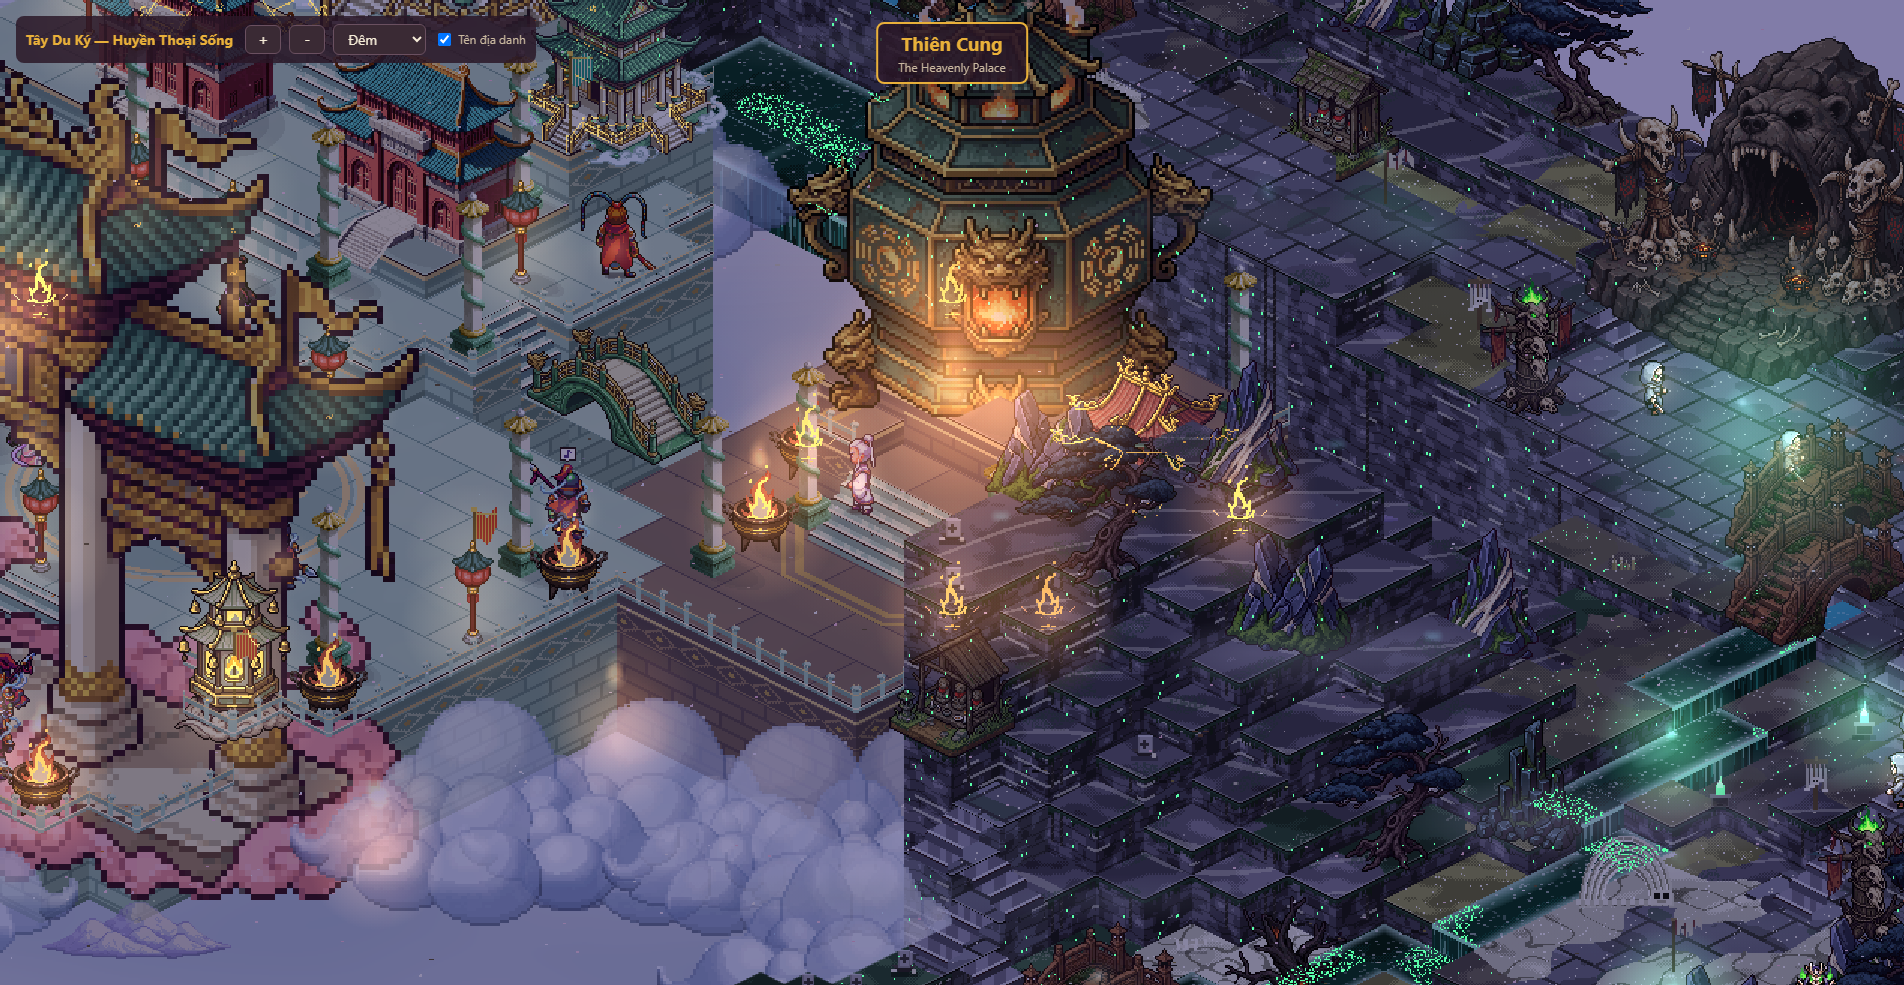
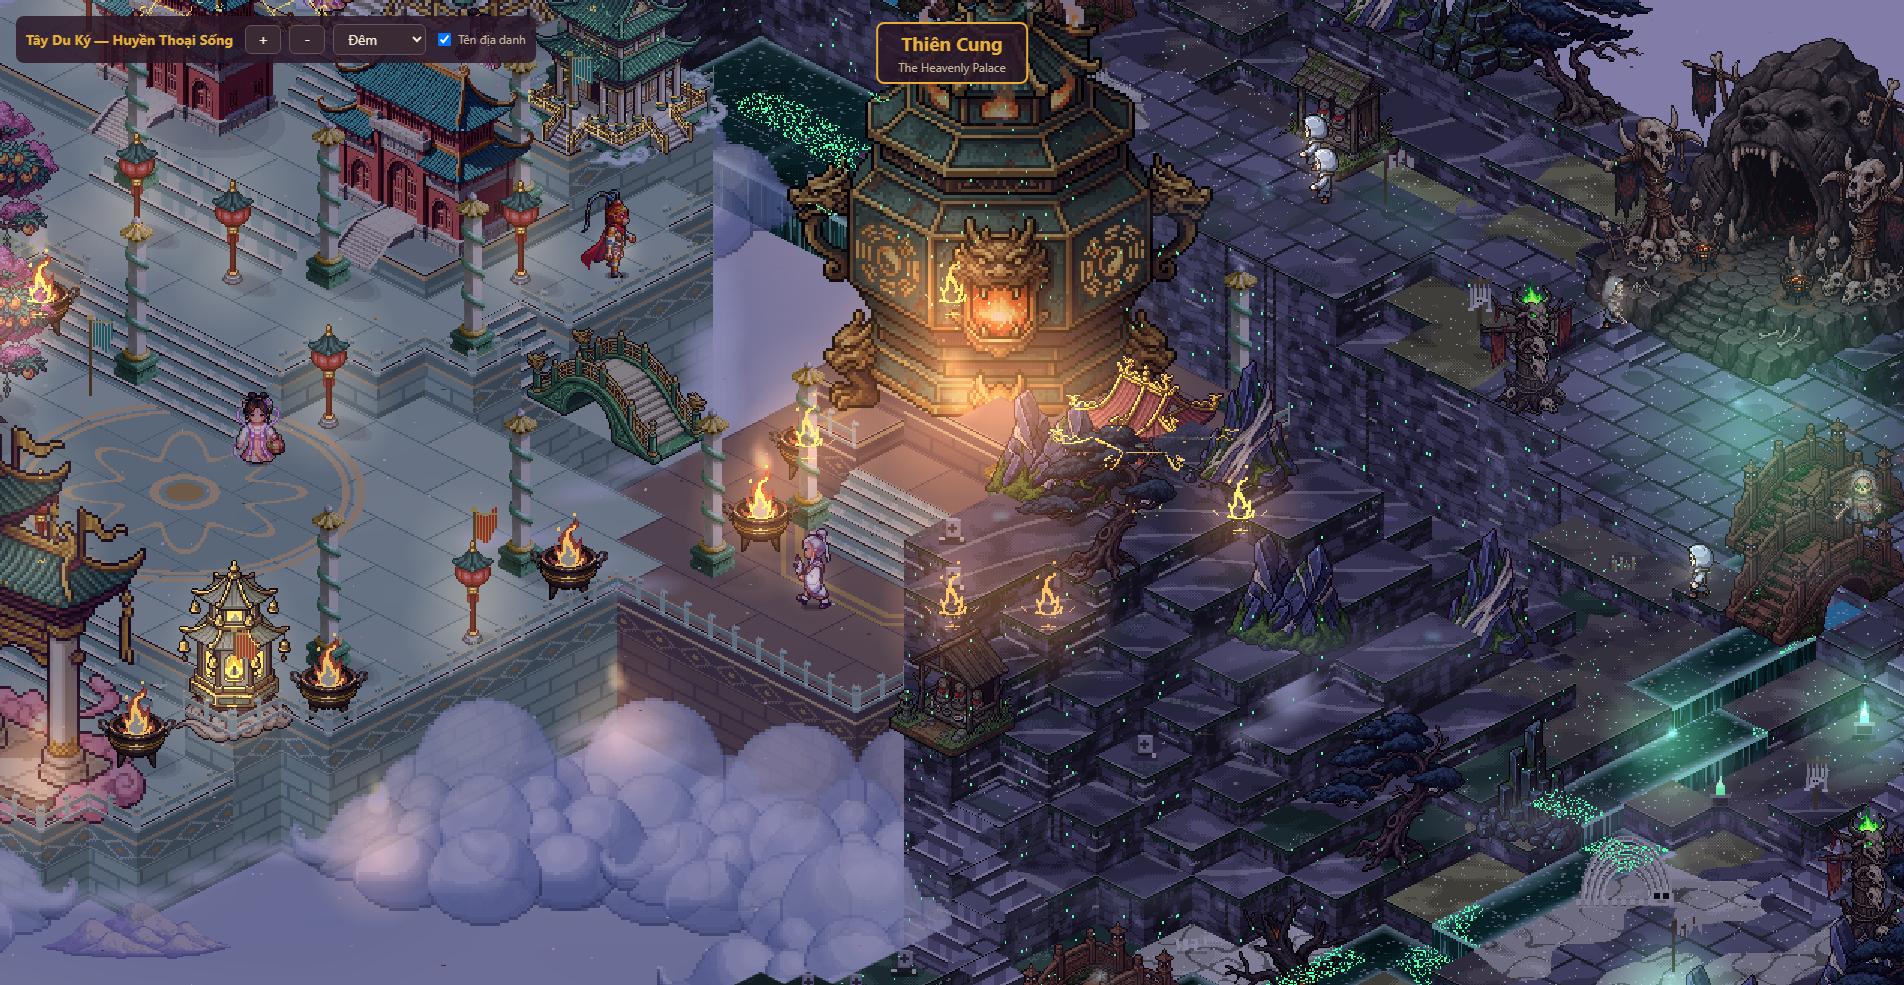
Thiên Cung: shrink Nam Thiên Môn to 1x so the court and events stay visible, turn blank HEAVEN patches in the garden into lawn, wrap cliff feet and corners in cloud banks to soften the seams

diff --git a/tayduky/tw-tc2-fx.js b/tayduky/tw-tc2-fx.js
@@ -20,13 +20,28 @@ window.TWFX = window.TWFX || {};
   const prevSprite = A.ext && A.ext.sprite; A.ext = A.ext || {};
   A.ext.sprite = p => {
     const key = p.kind === 'tcgate' ? 'tc_monument_a' : p.kind === 'tcfurnace' ? 'tc_kiln_a' : p.kind === 'tcpalace' && p.big ? 'tc_palace_a' : null, im = key && A.IMG[key];
-    if (!im) return prevSprite ? prevSprite(p) : null; const K = 2;
+    if (!im) return prevSprite ? prevSprite(p) : null; const K = p.kind === 'tcgate' ? 1 : 2;   // the great gate stays at the world's own scale so it frames the court instead of hiding it
     return { w: im.w * K, h: im.h * K, py: im.py * K, frames: [im.im], em: null, glow: null, silk: null, flat: false, img: true, draw(g, s, f) { const sv = g.imageSmoothingEnabled; g.imageSmoothingEnabled = false; g.drawImage(f, 0, 0, f.width, f.height, s.X, s.Y, f.width * K, f.height * K); g.imageSmoothingEnabled = sv; } };
   };
   // ---------------------------------------------------------------- depth-sorted: silk banners on poles and the flying lid
   function banner(g, X, Y, t, ph, col) { px(g, X, Y - 52, 2, 52, '#7a5a2a'); px(g, X - 1, Y - 54, 4, 3, '#e8c860'); for (let q = 0; q < 14; q++) { const w = Math.sin(t * 2.6 + ph + q * 0.5) * (1 + q * 0.25); g.fillStyle = col[q % 2 ? 0 : 1]; g.fillRect(Math.round(X + 2 + q), Math.round(Y - 50 + w), 1, 18 - (q > 9 ? q - 9 : 0)); } px(g, X + 2, Y - 50, 14, 1, '#e8c860'); }
+  // ---------------------------------------------------------------- the borders: soft cloud wraps every edge where Thiên Cung meets a neighbouring biome's rock, so no hard seam shows
+  let seamPts = null;
+  function seamList() {
+    if (seamPts) return seamPts; seamPts = []; const N = TWM.N, M = TWM.M, B = F().B, id = TWM.id, solid = k => TWM.MAT[k] !== M.VOID && TWM.MAT[k] !== M.CLOUD;
+    for (let k = 0; k < N * N; k++) { if (TWM.BIO[k] !== B || !solid(k) || TWM.MAT[k] === M.POOL) continue; const i = k % N, j = Math.floor(k / N);
+      for (const [da, db] of [[1, 0], [0, 1]]) { const a = i + da, b = j + db; if (!TWM.inMap(a, b)) continue; const z = id(a, b); if ((TWM.BIO[z] === B && solid(z)) || TWM.MAT[z] === M.VOID || TWM.H[k] - TWM.H[z] < 2) continue;
+        // only where Thiên Cung stands higher: its cliff foot meets cloud or the neighbour's lower rock (a rock wall rising above Thiên Cung hides this edge itself)
+        seamPts.push({ x: (i + 0.5 + da * 0.5) * T, y: (j + 0.5 + db * 0.5) * T, cx: (a + 0.5) * T, cy: (b + 0.5) * T, d: (a + b + 1) * T + 0.3, n: seamPts.length, dh: TWM.H[k] - TWM.H[z], hi: TWM.H[k], lo: TWM.MAT[z] === M.CLOUD ? -1 : TWM.H[z], corner: da === 1 && !(TWM.inMap(i, j - 1) && TWM.BIO[id(i, j - 1)] === B && solid(id(i, j - 1))), cox: (i + 1) * T, coy: j * T }); } }
+    return seamPts;
+  }
+  function seamMist(D, R) {
+    const t = R.t; for (const p of seamList()) { const Z = TWM.MAT[TWM.id(Math.floor(p.cx / T), Math.floor(p.cy / T))] === TWM.M.CLOUD ? -1 : ground(p.cx, p.cy), X = R.wx(p.x, p.y), Y = R.wy(p.x, p.y, Z); if (!inView(R, X, Y, 60)) continue;
+      D.push([p.d, 5, { draw: g => { const sw = Math.sin(t * 0.3 + p.n * 1.9) * 3; mist(g, X + sw, Y + 2, 30, 10, 0.55, '246,250,255'); mist(g, X - 12 - sw, Y + 7, 22, 8, 0.4, '255,244,248'); } }]);
+      if (p.corner) { const cx = R.wx(p.cox, p.coy); for (let q = 0; q < 5; q++) { const z = p.lo + (p.hi - p.lo) * (q + 0.5) / 5, cy = R.wy(p.cox, p.coy, z); if (inView(R, cx, cy, 40)) D.push([p.d + 0.1, 5, { draw: g => mist(g, cx + Math.sin(t * 0.4 + q + p.n) * 2, cy, 24, 16, 0.6, '244,249,255') }]); } } }
+  }
   function drawables(D, R) {
-    const f = st(), Fm = F(); if (!f || !Fm || !near(R)) return; const t = R.t;
+    const f = st(), Fm = F(); if (!f || !Fm || !near(R)) return; const t = R.t; seamMist(D, R);
     for (const [n, c] of Fm.flags.entries()) { const x = (c[0] + 0.5) * T, y = (c[1] + 0.5) * T, [X, Y] = scr(R, x, y); if (inView(R, X, Y, 60)) D.push([x + y + 0.2, 5, { draw: g => banner(g, X, Y, t, n * 1.7, n % 2 ? ['#d83a2a', '#f0c050'] : ['#2a9a8a', '#f0e8c0']) }]); }
     for (const [n, c] of Fm.fires.entries()) { const x = (c[0] + 0.5) * T, y = (c[1] + 0.5) * T, [X, Y] = scr(R, x, y, 10); if (!inView(R, X, Y, 40)) continue; D.push([x + y + 0.3, 5, { draw: g => { g.globalCompositeOperation = 'lighter'; for (let q = 0; q < 5; q++) { const u = (t * 1.4 + q / 5 + n * 0.3) % 1; blob(g, X + Math.sin(t * 5 + q + n) * 2, Y - 8 - u * 22, 5 + (1 - u) * 4, q % 2 ? '255,150,50' : '255,220,110', (1 - u) * (0.5 + f.heat * 0.3)); } g.globalCompositeOperation = 'source-over'; } }]); }
     for (const d of f.debris) { const [X, Y] = [R.wx(d.x, d.y), R.wy(d.x, d.y, ground(d.x, d.y) + d.z / 4)]; if (!inView(R, X, Y, 20)) continue; D.push([d.x + d.y + 30, 5, { draw: g => { g.save(); g.translate(X, Y); g.rotate(d.r + d.t * 6); g.fillStyle = '#7a5a2a'; g.fillRect(-d.s, -d.s / 2, d.s * 2, d.s); g.fillStyle = '#e8c860'; g.fillRect(-d.s, -d.s / 2, d.s * 2, 1); g.restore(); if (d.t < 1.5) { g.globalCompositeOperation = 'lighter'; blob(g, X, Y, 8, '255,150,60', 0.4 * (1 - d.t / 1.5)); g.globalCompositeOperation = 'source-over'; } } }]); }
@@ -101,5 +116,5 @@ window.TWFX = window.TWFX || {};
     for (const c of Fm.lamps) { const x = (c[0] + 0.5) * T, y = (c[1] + 0.5) * T, [LX, LY] = scr(R, x, y, 14); if (inView(R, LX, LY, 60)) blob(g, LX, LY, 46, '255,214,140', (0.22 + f.lampPulse * 0.4) * amt * (0.88 + 0.12 * Math.sin(t * 5 + c[0]))); }
     for (const c of Fm.fires) { const x = (c[0] + 0.5) * T, y = (c[1] + 0.5) * T, [LX, LY] = scr(R, x, y, 10); if (inView(R, LX, LY, 60)) blob(g, LX, LY, 52, '255,150,60', 0.3 * amt * (0.8 + 0.2 * Math.sin(t * 8 + c[1]))); }
   }
-  window.TWFX.tc2 = { draw, light, drawables };
+  window.TWFX.tc2 = { draw, light, drawables, seamList };
 })();

diff --git a/tayduky/tw-tc2.js b/tayduky/tw-tc2.js
@@ -20,7 +20,9 @@ window.TW_TC2_BUILD = function (X) {
   ell(36.5, 12.5, 3.7, 2.7, (a, b) => set(a, b, 8, M.BRONZE)); ell(36.5, 12.5, 2.5, 1.8, (a, b) => set(a, b, 9, M.BRONZE)); for (let a = 35; a <= 37; a++) set(a, 14, 7, M.BRONZE);
   for (let b = 20; b <= 22; b++) for (let a = 14; a <= 15; a++) if (inB(a, b)) set(a, b, 6, M.POOL); TWM.water.push({ type: 'ell', c: [15.5, 21.5], rx: 1.5, ry: 2.2, mat: M.POOL });
   for (let k = 0; k < N * N; k++) { if (BIO[k] !== B || MAT[k] === M.VOID || MAT[k] === M.CLOUD || MAT[k] === M.POOL) continue; const i = k % N, j = Math.floor(k / N); for (const [da, db] of [[1, 0], [0, 1]]) { const z = id(i + da, j + db); if (BIO[z] !== B || MAT[z] === M.CLOUD || MAT[z] === M.VOID || MAT[z] === M.POOL || MAT[z] === M.HEAVENBRIDGE || MAT[k] === M.HEAVENBRIDGE) continue; if (Math.abs(H[k] - H[z]) === 1 && !TWM.stairs.has(k + ',' + z)) { TWM.stairs.set(k + ',' + z, 1); TWM.stairs.set(z + ',' + k, 1); } } }
-  const walk = m => m === M.HEAVENPAVE || m === M.HEAVEN || m === M.PEACHLAWN || m === M.BRONZE || m === M.HEAVENBRIDGE;
+  // the pilot's pale HEAVEN stone read as blank white patches in the garden: turn it into lawn, keep one jade path (j = 23) toward the court
+  for (let k = 0; k < N * N; k++) if (BIO[k] === B && MAT[k] === M.HEAVEN) MAT[k] = Math.floor(k / N) === 23 ? M.HEAVENPAVE : M.PEACHLAWN;
+  const walk = m =>m === M.HEAVENPAVE || m === M.HEAVEN || m === M.PEACHLAWN || m === M.BRONZE || m === M.HEAVENBRIDGE;
   const blocked = new Set(), rb = () => { blocked.clear(); for (const p of TWM.props) if (p.block && mine(p.i, p.j)) { const fw = p.fp ? p.fp[0] : 1, fh = p.fp ? p.fp[1] : 1; for (let q = 0; q < fh; q++) for (let r = 0; r < fw; r++) blocked.add(id(p.i + r, p.j + q)); } };
   const free = (a, b) => inB(a, b) && walk(MAT[id(a, b)]) && !blocked.has(id(a, b));
   const P = (kind, a, b, o) => { o = o || {}; const fw = o.fp ? o.fp[0] : 1, fh = o.fp ? o.fp[1] : 1; rb(); for (let q = 0; q < fh; q++) for (let r = 0; r < fw; r++) { if (!inB(a + r, b + q) || !walk(MAT[id(a + r, b + q)]) || blocked.has(id(a + r, b + q)) || (o.block && PATHC[id(a + r, b + q)])) return null; } return prop(kind, a, b, o); };
@@ -29,7 +31,7 @@ window.TW_TC2_BUILD = function (X) {
   const Q = (kind, a, b, o) => { const s = snap(a, b, 2); if (!s) { F.failed.push('poi:' + kind + '@' + a + ',' + b); return null; } const p = poi(kind, 'tc', s[0], s[1], o); if (p) RES[id(s[0], s[1])] = 1; return p; };
   const LT = (a, b, r, col, kind) => TWM.lights.push({ biome: 'tc', i: a, j: b, r, col, kind: kind || 'lantern' });
   // ---- 1. Nam Thiên Môn: the great gate across the south plaza, with lantern towers either side
-  F.gate = L1('tcgate', 24, 26, { fp: [9, 2], piers: [[0, 1], [2, 1], [6, 0], [8, 0]], v: 0 });
+  F.gate = L1('tcgate', 25, 27, { fp: [7, 2], piers: [[0, 1], [2, 1], [4, 0], [6, 0]], v: 0 });
   for (const [a, b] of [[24, 25], [32, 25]]) { if (L1('tclantern', a, b, { v: 1 })) { F.lamps.push([a, b]); LT(a, b, 64, '255,202,125'); } }
   for (const [a, b] of [[25, 28], [31, 28]]) if (L1('tcbrazier', a, b, { v: 0 })) { F.fires.push([a, b]); LT(a, b, 50, '255,159,80', 'fire'); }
   // ---- 2. the Court of Heaven

diff --git a/docs/tayduky/v2/STATUS.md b/docs/tayduky/v2/STATUS.md
@@ -439,3 +439,8 @@ Real tiers now: the south plaza 3 -> the court 5 -> the ceremony terrace 8 -> th
 **Engine additions:** a `kneel` step and pose in `tw-sim.js` / `tw-render.js` (the sprite is deformed: legs fold under, the body drops, a bow from the waist), a `sutra` / `blank` scroll drawn in the pilgrims' hands, `foreT` per story, optional `pick` for flat sprites.
 **Tests:** `tests/tayduky-v2-lat-sim.mjs` (both signatures; four kneel at once, bow, blank and true sutra, states, no teleports), `tests/tayduky-v2-lat-shots.mjs` (screenshots in `screenshots/lat/`), `tests/tayduky-v2-lat.mjs` (Chrome capture of every signature phase), map15 (the Ngũ Trang Quán pocket connector made it pass: 15 regions reachable).
 **Limits:** the kneel is a code deformation of the walking sprite, not a drawn clip; A Nan is the first young monk and Kasyapa the elder (no unique character art); the east cliff (the world rim) is long and uniform apart from cloud banks and cascade streaks; the camera cannot pan past the world's east edge so the wide shot is the same as the gate view.
+
+## Thiên Cung readability + seam pass (2026-11-21)
+- Nam Thiên Môn is drawn at the world's own scale again (1x instead of 2x; footprint 9x2 -> 7x2, moved to (25,27)). It still frames the plaza but the court, the chase of Đại Náo Thiên Cung and the furnace beyond stay readable (`screenshots/tc/tc-event-havoc-behind-gate.png`, `tc-day-wide-before.png` for comparison).
+- Seams: the pilot's pale HEAVEN stone in the Peach Garden (read as blank white patches) is now lawn with one jade path; cloud banks wrap every cliff foot / corner where Thiên Cung stands above cloud or a neighbour's lower rock (`tw-tc2-fx.js` `seamList` / `seamMist`), which softens the hard vertical face edge east of the court. `tc-seam-before.png` / `tc-seam-after.png`.
+- Limitations: the Bạch Cốt Lĩnh rock wall (level 13) beside the furnace dais still rises abruptly (its hidden west face cannot be dressed from Thiên Cung); the neighbour's pool waterfall face above the east face edge is unchanged.
